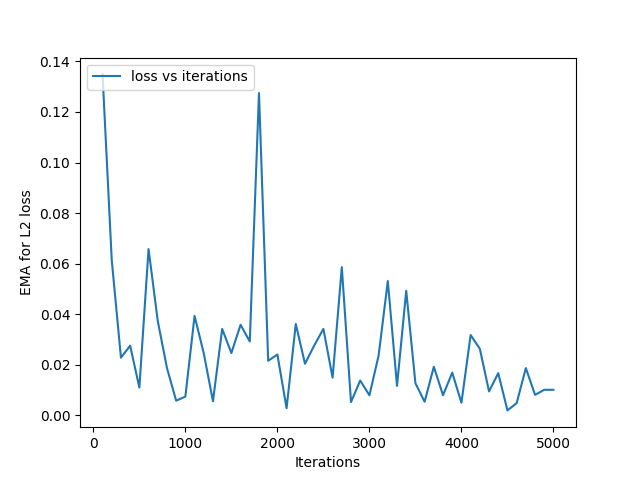
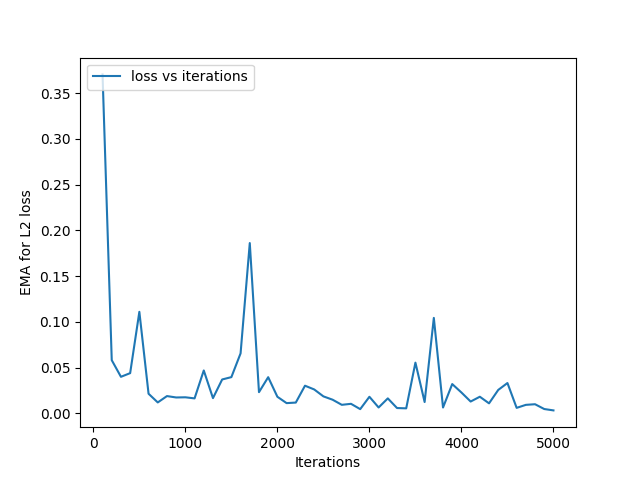
Tested DDPM Unet2d with t as one single item , and set to constant = 1.0. It worked and the generated images are good which is strage.

diff --git a/denoising_diffusion_pytorch/denoising_diffusion_pytorch.py b/denoising_diffusion_pytorch/denoising_diffusion_pytorch.py
@@ -350,11 +350,11 @@ class SimpleResNet(nn.Module):
     def forward(self, x: torch.Tensor, t: torch.Tensor, x_self_cont: bool):
         t_norm = (t / float(self.diffusion_time_steps)).reshape(-1, 1)
         depth = 10
-        x_input = x.to(torch.float64) # torch.cat([x, t_norm],dim=1).to(torch.float64)
+        x_input = x.to(torch.float64)  # torch.cat([x, t_norm],dim=1).to(torch.float64)
         x_out = x
         for i in range(depth):
             x_out = self.block(x_input)
-            x_input = x_out.to(torch.float64) # torch.cat([x_out, t_norm],dim=1).to(torch.float64)
+            x_input = x_out.to(torch.float64)  # torch.cat([x_out, t_norm],dim=1).to(torch.float64)
         return x_out
 
 
@@ -438,7 +438,7 @@ class Unet2D(nn.Module):
 
         # time embeddings
 
-        time_dim = dim * 4
+        time_dim = 1  # dim * 4
 
         self.random_or_learned_sinusoidal_cond = learned_sinusoidal_cond or random_fourier_features
 
@@ -528,8 +528,8 @@ class Unet2D(nn.Module):
         x = self.init_conv(x)
         r = x.clone()
 
-        t = self.time_mlp(time)
-
+        # t = self.time_mlp(time)
+        t = torch.tensor([1.0], device=x.device).reshape(-1, 1)
         h = []
 
         for block1, block2, attn, downsample in self.downs:
@@ -1067,7 +1067,7 @@ class GaussianDiffusion(nn.Module):
             device = x.device
             if isinstance(self.noise_model, HeadTail):
                 t = torch.randint(0, self.num_timesteps, (1,), device=device).long()
-            elif isinstance(self.noise_model, (SimpleNN1,SimpleResNet)):
+            elif isinstance(self.noise_model, (SimpleNN1, SimpleResNet)):
                 t = torch.randint(0, self.num_timesteps, (b,), device=device).long()
             else:
                 raise NotImplementedError(
